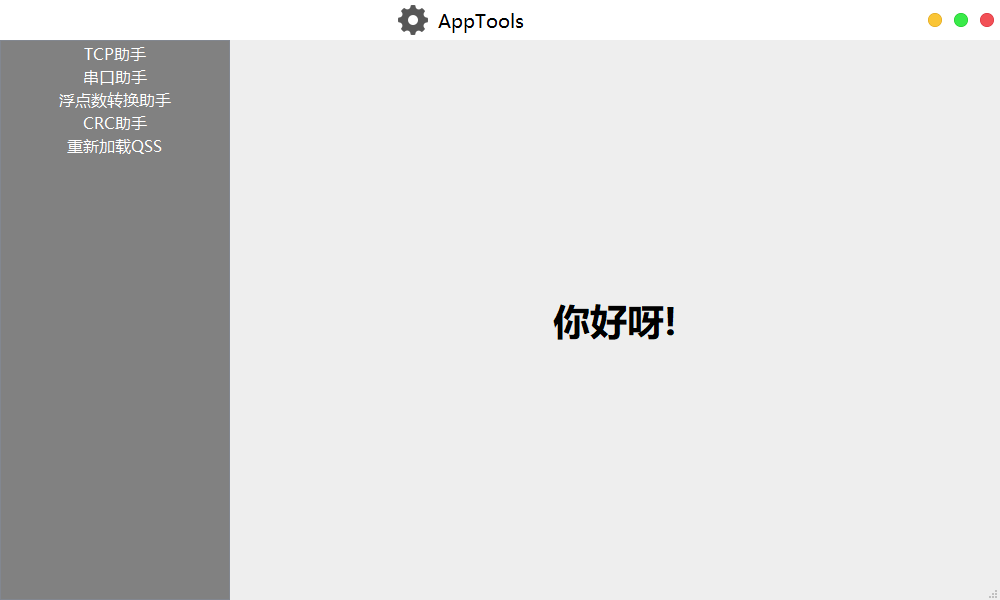
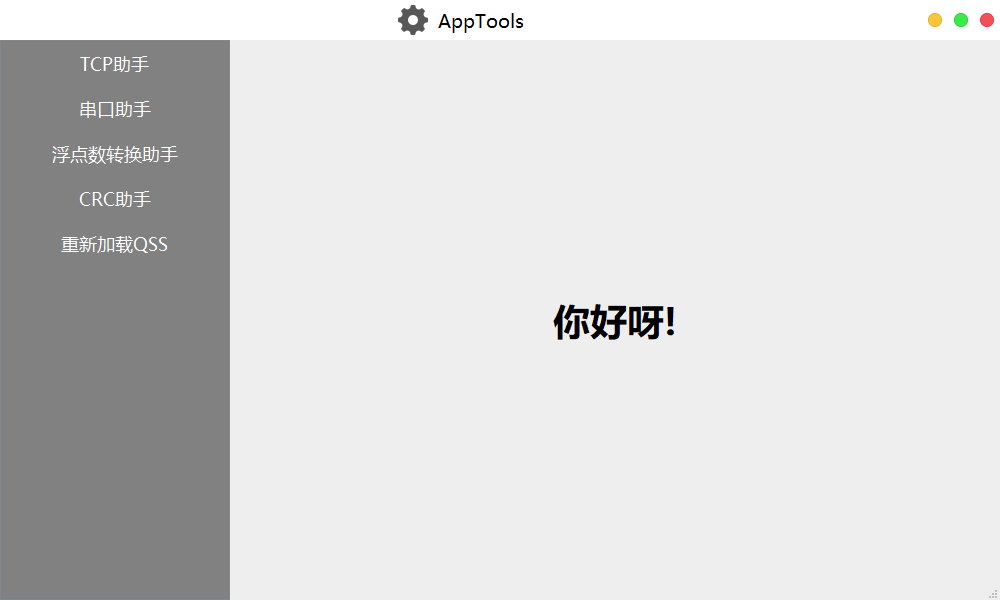
修改QListWidget

Changed region(s): [[0.031, 0.06, 0.186, 0.27], [0.093, 0.3, 0.155, 0.36], [0.062, 0.39, 0.186, 0.42]]

diff --git a/AppTools/bin/qss/Light.css b/AppTools/bin/qss/Light.css
@@ -22,10 +22,38 @@ QStackedWidget{
 	padding:0;
 }
 
-QListWidget#listWidget{
-		color:white;
-		padding:0;
-        background-color:#818181;
+/******************************************************************************
+ *                                   QListWidget
+ *****************************************************************************/
+
+QListWidget{
+	border-width:0px;
+	font-size:18px;
+	color:white;
+	padding:0;
+    background-color:#818181;
+}
+
+QListWidget::Item{
+	border-width:0px;
+	min-height:45px;
+	padding:0;
+}
+
+QListWidget::Item:hover{
+	background:#0066ff;
+	padding:0;
+}
+
+QListWidget::item:selected{
+	background:#444444;
+	color:#0084ff;
+}
+
+QListWidget::item:selected:active{
+	border-width:0px;
+	background:#444444;
+	padding:0;
 }
 
 /******************************************************************************

diff --git a/AppTools/ui/mainwindow.cpp b/AppTools/ui/mainwindow.cpp
@@ -104,12 +104,14 @@ void MainWindow::titleBtn()
 void MainWindow::createListWidgetBtnMenu()
 {
     ui->listWidget->clear();
-    ui->listWidget->setFont(QFont("微软雅黑", 12, QFont::Normal, false));
+    ui->listWidget->setFocusPolicy(Qt::NoFocus);    //去除选中虚线框
+    //ui->listWidget->setFont(QFont("微软雅黑", 12, QFont::Normal, false));
     QStringList toolList;
     toolList<<"TCP助手"<<"串口助手"<<"浮点数转换助手"<<"CRC助手"<<"重新加载QSS";
     ui->listWidget->addItems(toolList);
-    for(int i=0;i<toolList.size();i++)
+    for(int i=0;i<toolList.size();i++)      
         ui->listWidget->item(i)->setTextAlignment(Qt::AlignCenter);
+
 
     //    QListWidgetItem *tool;
     //    tool=new QListWidgetItem(QString("TCP助手"),ui->listWidget);

diff --git a/AppTools/ui/TcpWidget.cpp b/AppTools/ui/TcpWidget.cpp
@@ -68,7 +68,7 @@ void TcpWidget::initWindow()
     QApplication::setFont(QFont ("微软雅黑", 10, QFont::Normal, false));
 
     AppCfg::readConfig();                          //读取配置
-    ui->model->findText(AppCfg::tcpModel);
+    ui->model->setCurrentIndex(ui->model->findText(AppCfg::tcpModel));
     ui->ip->setText(AppCfg::tcpIp);
     ui->port->setText(QString::number(AppCfg::tcpPort));
     ui->hexrecv->setChecked(AppCfg::tcpHexRecv);

diff --git a/AppTools/ui/LoginWidget.cpp b/AppTools/ui/LoginWidget.cpp
@@ -29,6 +29,8 @@ LoginWidget::LoginWidget(QWidget *parent) :
         this->showMinimized();
     });
 
+    ui->loginbtn->setShortcut(Qt::Key_Enter);   //登录快捷键回车
+
     // 输入密码后按下回车进行登陆
     connect(ui->kpassword, &QLineEdit::returnPressed, [this] {
         ui->loginbtn->click();
